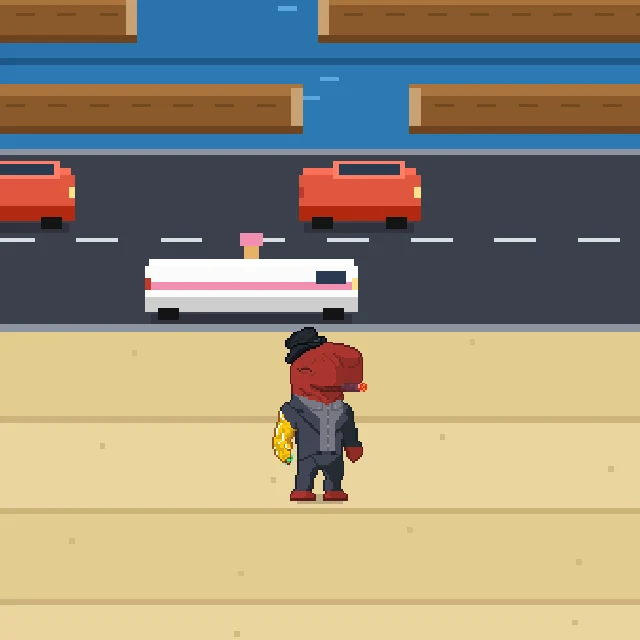
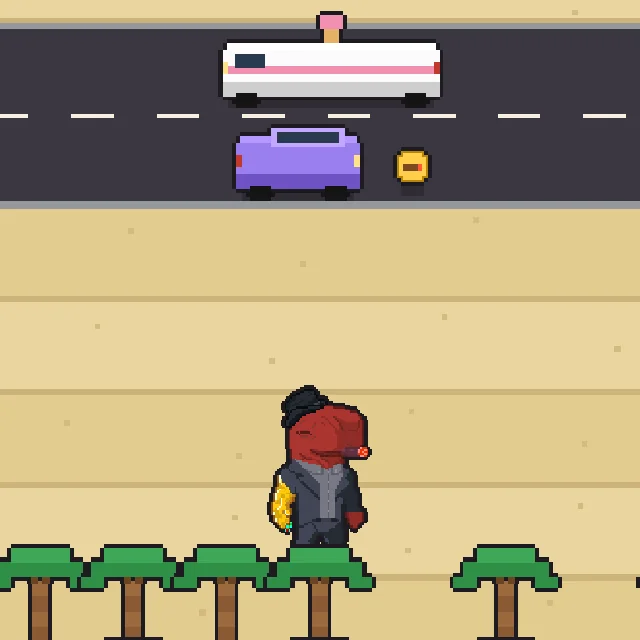
Give Whale Road the same comic ink
Every solid thing on the board (cars, boats, logs, palms, coins, sharks,
the gull and your whale) now gets a black ink outline like the OG art:
inked() draws a shape four times nudged in ink, then once for real.
Drawing only; game-sim.js is untouched, so the server's replays and every
score on the board stay exactly as they were.

The ground moves toward the whale palette too: turquoise harbour water,
ink-violet roads with cream lines, Light Blue shallows, Blue boat lanes
and purple-tinted shark lanes. The Minigames cover is re-rendered from
the new look.

diff --git a/game.js b/game.js
@@ -120,9 +120,56 @@
         try { window.localStorage.setItem(key, JSON.stringify(value)); } catch (err) { /* fine */ }
     }
 
+    /* Comic ink, like the OG art: every solid thing on the board (not
+       the ground, ripples or sparkles) gets a black outline. inked(fn)
+       runs fn four times nudged up/down/left/right with every fill
+       forced to ink, then once for real on top. Drawing code must give
+       the same shapes each time it runs within a frame, so no
+       Math.random() in anything wrapped by inked(). Translucent fills
+       (wakes, shadows) are skipped in the ink pass. */
+    const INK = '#1d1b20';
+    const INK_W = 2;
+    const INK_OFFSETS = [[-INK_W, 0], [INK_W, 0], [0, -INK_W], [0, INK_W]];
+    let inkPass = false;
+
+    function inked(fn) {
+        inkPass = true;
+        for (let i = 0; i < INK_OFFSETS.length; i++) {
+            const o = INK_OFFSETS[i];
+            ctx.translate(o[0], o[1]);
+            fn();
+            ctx.translate(-o[0], -o[1]);
+        }
+        inkPass = false;
+        fn();
+    }
+
     function fill(color, x, y, w, h) {
-        ctx.fillStyle = color;
+        if (inkPass) {
+            if (color.lastIndexOf('rgba', 0) === 0) return;
+            ctx.fillStyle = INK;
+        } else {
+            ctx.fillStyle = color;
+        }
         ctx.fillRect(Math.round(x), Math.round(y), Math.round(w), Math.round(h));
+    }
+
+    /* A sprite's ink silhouette, made once per sprite. */
+    const inkCache = new WeakMap();
+    function inkOf(s) {
+        let c = inkCache.get(s);
+        if (!c) {
+            c = document.createElement('canvas');
+            c.width = s.width;
+            c.height = s.height;
+            const g = c.getContext('2d');
+            g.drawImage(s, 0, 0);
+            g.globalCompositeOperation = 'source-in';
+            g.fillStyle = INK;
+            g.fillRect(0, 0, c.width, c.height);
+            inkCache.set(s, c);
+        }
+        return c;
     }
 
     /* #rrggbb lightened or darkened by amt (-255..255) */
@@ -925,6 +972,7 @@
     }
 
     function drawShadow(cx, y, w) {
+        if (inkPass) return;
         ctx.fillStyle = 'rgba(0,0,0,0.2)';
         ctx.fillRect(Math.round(cx - w / 2), Math.round(y), Math.round(w), 5);
     }
@@ -978,21 +1026,21 @@
             fill(snow ? '#c9d6e2' : '#cdb47a', 0, y + CELL - 3, W, 3);
         } else if (t === 'road' || t === 'icelane') {
             const ice = t === 'icelane';
-            fill(ice ? (alt ? '#bcd3e6' : '#b5cde2') : '#3b404c', 0, y, W, CELL);
+            fill(ice ? (alt ? '#bcd3e6' : '#b5cde2') : '#3b3742', 0, y, W, CELL);
             const above = sim.lanes.get(lane.row + 1);
             const below = sim.lanes.get(lane.row - 1);
-            const line = ice ? '#9fb9cf' : '#d9dde3';
+            const line = ice ? '#9fb9cf' : '#f7f0e3';
             if (above && above.type === t) {
                 for (let x = 8; x < W; x += 44) fill(line, x, y - 1, 22, 2);
             } else {
-                fill(ice ? '#e6eef6' : '#8e95a1', 0, y, W, 3);
+                fill(ice ? '#e6eef6' : '#94989c', 0, y, W, 3);
             }
-            if (!below || below.type !== t) fill(ice ? '#9fb9cf' : '#8e95a1', 0, y + CELL - 4, W, 4);
+            if (!below || below.type !== t) fill(ice ? '#9fb9cf' : '#94989c', 0, y + CELL - 4, W, 4);
             if (ice) for (let x = (lane.seed % 30); x < W; x += 60) fill('#a9c2d8', x, y + 20, 26, 2);
         } else if (t === 'water') {
-            fill(alt ? '#2c79b4' : '#2a73ad', 0, y, W, CELL);
-            fill('#1d5a8a', 0, y, W, 4);
-            ripples(lane, y, '#5aa7dc', 7, 0.25);
+            fill(alt ? '#3a9a8e' : '#36928a', 0, y, W, CELL);
+            fill('#28746b', 0, y, W, 4);
+            ripples(lane, y, '#83c7b3', 7, 0.25);
         } else if (t === 'rail') {
             fill(alt ? '#80776d' : '#796f66', 0, y, W, CELL);
             for (let x = lane.seed % 24; x < W; x += 24) fill('#5b4636', x, y + 10, 8, 30);
@@ -1002,15 +1050,15 @@
             fill('#eef1f5', 0, y + 31, W, 1);
             expressCue(lane, y);
         } else if (t === 'shallows') {
-            fill(alt ? '#4fb3c4' : '#4aabbd', 0, y, W, CELL);
-            for (let i = 0; i < 6; i++) fill('#7fd0d9', (lane.seed * 13 + i * 97) % W, y + 6 + ((i * 13) % 30), 4, 3);
-            ripples(lane, y, '#a8e6ee', 4, 0.15);
+            fill(alt ? '#7fc0c9' : '#79b9c3', 0, y, W, CELL);
+            for (let i = 0; i < 6; i++) fill('#add4db', (lane.seed * 13 + i * 97) % W, y + 6 + ((i * 13) % 30), 4, 3);
+            ripples(lane, y, '#d6edf0', 4, 0.15);
         } else if (t === 'boats') {
-            fill(alt ? '#2f86b8' : '#2c7fb0', 0, y, W, CELL);
-            ripples(lane, y, '#6cb3dc', 6, 0.35);
+            fill(alt ? '#4f84b0' : '#4b7eaa', 0, y, W, CELL);
+            ripples(lane, y, '#a1c0d6', 6, 0.35);
         } else if (t === 'riptide') {
-            fill(alt ? '#1f5f8f' : '#1d5886', 0, y, W, CELL);
-            fill('#164a73', 0, y, W, 4);
+            fill(alt ? '#2c4f80' : '#2a4b7a', 0, y, W, CELL);
+            fill('#223e66', 0, y, W, 4);
             const drift = time * lane.dir * lane.speed * 0.9;
             for (let i = 0; i < 9; i++) {
                 const rx = ((((lane.seed * 23 + i * 71 + drift) % (W + 40)) + (W + 40)) % (W + 40)) - 20;
@@ -1020,12 +1068,12 @@
             }
         } else if (t === 'sharks' || t === 'orcas') {
             const arctic = t === 'orcas';
-            fill(arctic ? (alt ? '#1d4a6e' : '#1b466a') : (alt ? '#245f86' : '#225a80'), 0, y, W, CELL);
-            ripples(lane, y, arctic ? '#4e7ea3' : '#4f8fbb', 5, 0.2);
+            fill(arctic ? (alt ? '#1d4a6e' : '#1b466a') : (alt ? '#4a4f82' : '#464b7c'), 0, y, W, CELL);
+            ripples(lane, y, arctic ? '#4e7ea3' : '#8f8fc0', 5, 0.2);
             expressCue(lane, y);
         } else if (t === 'nets') {
-            fill(alt ? '#3a8fb8' : '#378ab2', 0, y, W, CELL);
-            ripples(lane, y, '#76bde0', 5, 0.3);
+            fill(alt ? '#5c95b8' : '#588fb2', 0, y, W, CELL);
+            ripples(lane, y, '#add4db', 5, 0.3);
         } else if (t === 'floes') {
             fill(alt ? '#173d5c' : '#163a57', 0, y, W, CELL);
             fill('#0f2c45', 0, y, W, 4);
@@ -1234,13 +1282,14 @@
         fill('#000000', dir > 0 ? head - 14 : head + 10, y + 20, 3, 3);
     }
 
+    /* Everything solid is inked; nets stay thin, they're a mesh. */
     function drawThings(lane, y) {
-        if (lane.cat === 'safe') lane.blocked.forEach(function (kind, c) { drawDecor(kind, colX(c), y); });
-        lane.coins.forEach(function (c) { drawCoin(colX(c), y); });
-        if (lane.cat === 'traffic') lane.items.forEach(function (it) { drawVehicle(it, y, lane.dir); });
-        else if (lane.cat === 'river') lane.items.forEach(function (it) { drawRaft(it, y); });
+        if (lane.cat === 'safe') lane.blocked.forEach(function (kind, c) { inked(function () { drawDecor(kind, colX(c), y); }); });
+        lane.coins.forEach(function (c) { inked(function () { drawCoin(colX(c), y); }); });
+        if (lane.cat === 'traffic') lane.items.forEach(function (it) { inked(function () { drawVehicle(it, y, lane.dir); }); });
+        else if (lane.cat === 'river') lane.items.forEach(function (it) { inked(function () { drawRaft(it, y); }); });
         else if (lane.cat === 'net') lane.items.forEach(function (it) { drawNet(it, y); });
-        else if (lane.cat === 'express' && lane.express.rider) drawRider(lane.express.rider, y, lane.dir);
+        else if (lane.cat === 'express' && lane.express.rider) inked(function () { drawRider(lane.express.rider, y, lane.dir); });
     }
 
     function footY(row) {
@@ -1298,7 +1347,7 @@
     }
 
     function drawWhale(x, feet, sx, sy, rot, alpha, facing) {
-        const s = sprite;
+        const s = inkPass ? inkOf(sprite) : sprite;
         ctx.save();
         ctx.globalAlpha = alpha;
         ctx.translate(Math.round(x), Math.round(feet));
@@ -1322,7 +1371,9 @@
             ctx.beginPath();
             ctx.rect(0, 0, W, surface);
             ctx.clip();
-            drawWhale(pose.x, pose.fy - pose.lift + (swimming ? 4 + Math.round(Math.sin(time * 3) * 2) : 0), pose.sx, pose.sy, pose.rot, pose.alpha, p.facing);
+            inked(function () {
+                drawWhale(pose.x, pose.fy - pose.lift + (swimming ? 4 + Math.round(Math.sin(time * 3) * 2) : 0), pose.sx, pose.sy, pose.rot, pose.alpha, p.facing);
+            });
             ctx.restore();
             if (swimming) {
                 const wob = Math.round(Math.sin(time * 4) * 2);
@@ -1331,7 +1382,7 @@
             }
         } else {
             drawShadow(pose.x, pose.fy - 3, 24 * (1 - 0.35 * (pose.lift / 14)));
-            drawWhale(pose.x, pose.fy - pose.lift, pose.sx, pose.sy, pose.rot, pose.alpha, p.facing);
+            inked(function () { drawWhale(pose.x, pose.fy - pose.lift, pose.sx, pose.sy, pose.rot, pose.alpha, p.facing); });
         }
 
         if (p.alive && p.shield) {
@@ -1370,20 +1421,22 @@
             const u = Math.min(1, (gull.t - 0.45) / 0.8);
             gx = lerp(wx, viewX - 80, u * u);
             gy = lerp(wy - 6, -120, u);
-            drawWhale(gx, gy + 6 + sprite.height, 1, 1, -0.25, 1, p.facing);
+            inked(function () { drawWhale(gx, gy + 6 + sprite.height, 1, 1, -0.25, 1, p.facing); });
         }
         const flap = Math.floor(time * 14) % 2 === 0;
-        ctx.save();
-        ctx.translate(Math.round(gx), Math.round(gy));
-        ctx.scale(2, 2);
-        fill('#c9ced4', -16, -2, 7, 5);
-        fill('#f4f4f4', -10, -4, 20, 9);
-        fill('#f4f4f4', 8, -9, 8, 8);
-        fill('#f2a33a', 16, -6, 6, 3);
-        fill('#111111', 12, -7, 2, 2);
-        if (flap) fill('#9aa3ad', -8, -15, 14, 11);
-        else fill('#9aa3ad', -8, 3, 14, 8);
-        ctx.restore();
+        inked(function () {
+            ctx.save();
+            ctx.translate(Math.round(gx), Math.round(gy));
+            ctx.scale(2, 2);
+            fill('#c9ced4', -16, -2, 7, 5);
+            fill('#f4f4f4', -10, -4, 20, 9);
+            fill('#f4f4f4', 8, -9, 8, 8);
+            fill('#f2a33a', 16, -6, 6, 3);
+            fill('#111111', 12, -7, 2, 2);
+            if (flap) fill('#9aa3ad', -8, -15, 14, 11);
+            else fill('#9aa3ad', -8, 3, 14, 8);
+            ctx.restore();
+        });
     }
 
     function drawDashTrail() {
@@ -1403,7 +1456,7 @@
     function draw() {
         ctx.setTransform(k, 0, 0, k, -Math.round(viewX * k), 0);
         ctx.imageSmoothingEnabled = false;
-        fill('#0c1a2a', 0, 0, W, VH);
+        fill('#1d1b20', 0, 0, W, VH);
         if (!sim) return;
 
         const p = sim.player;
